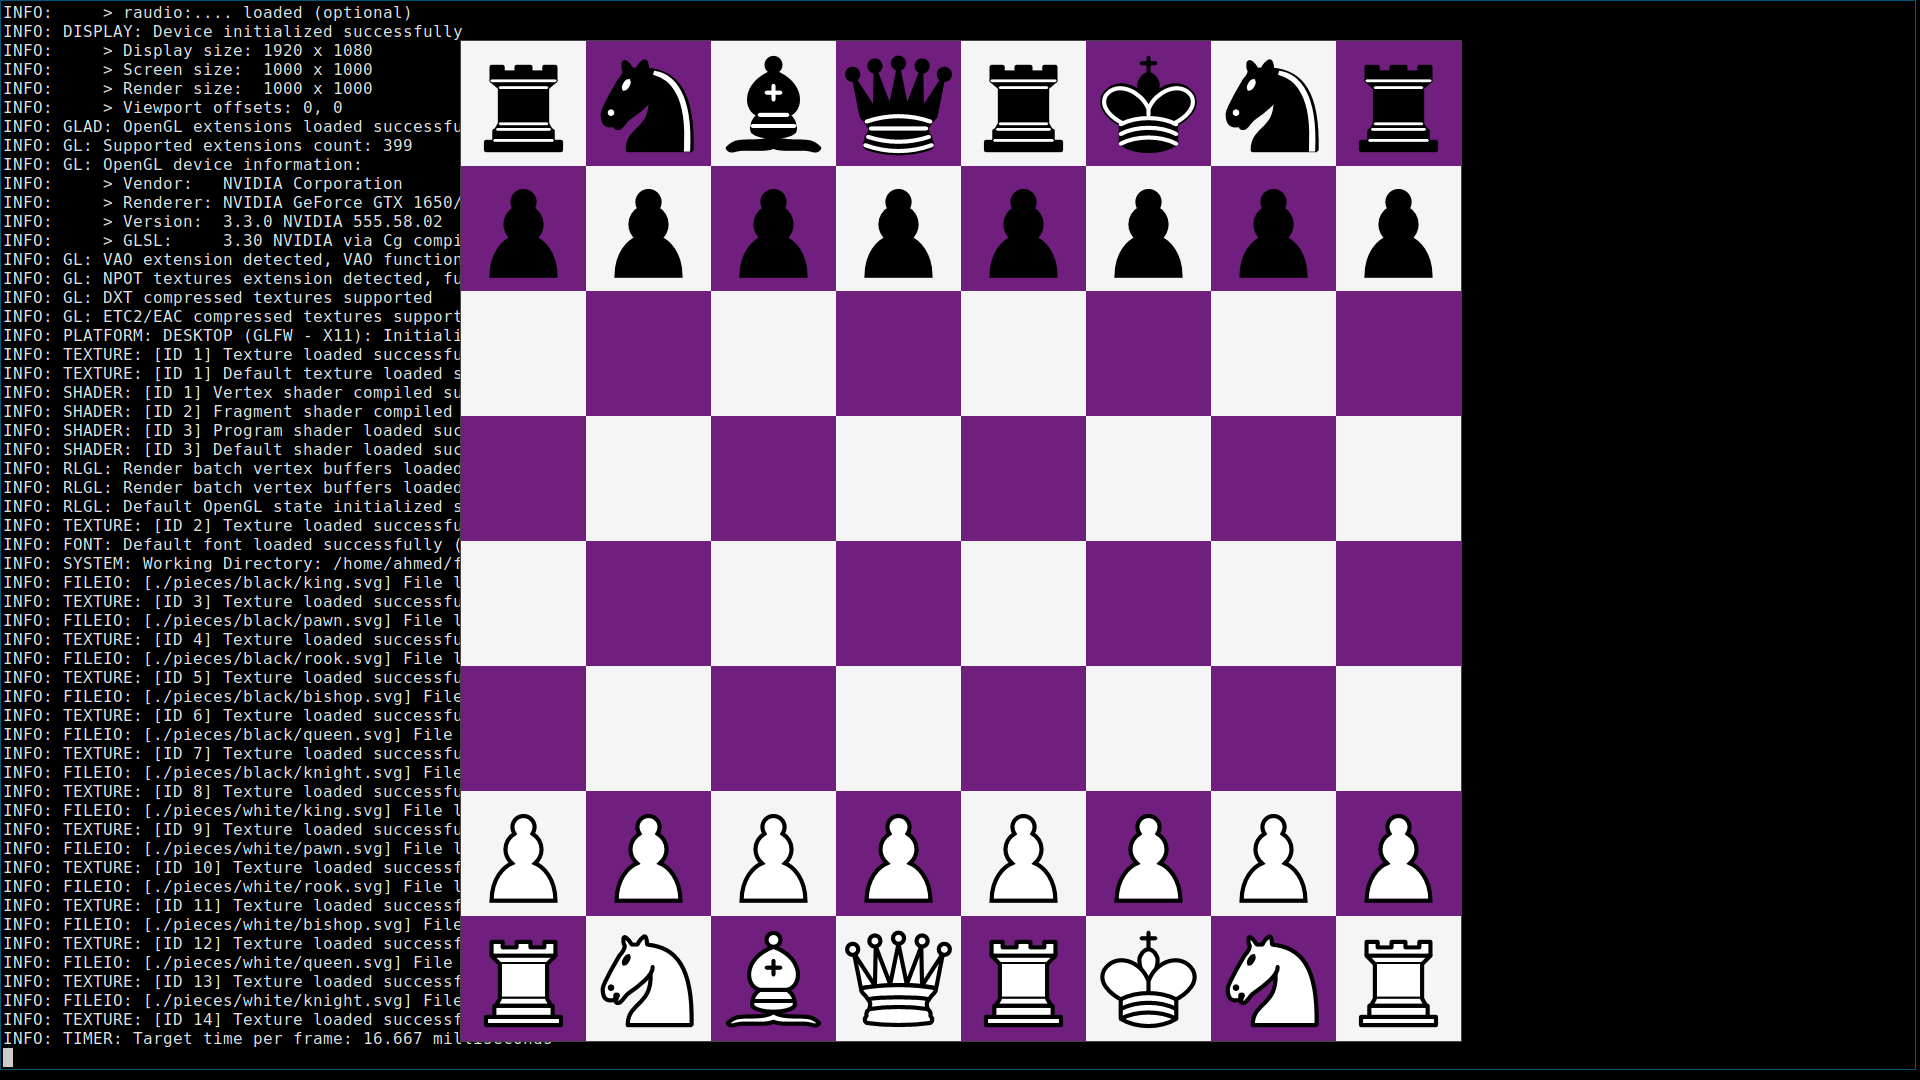
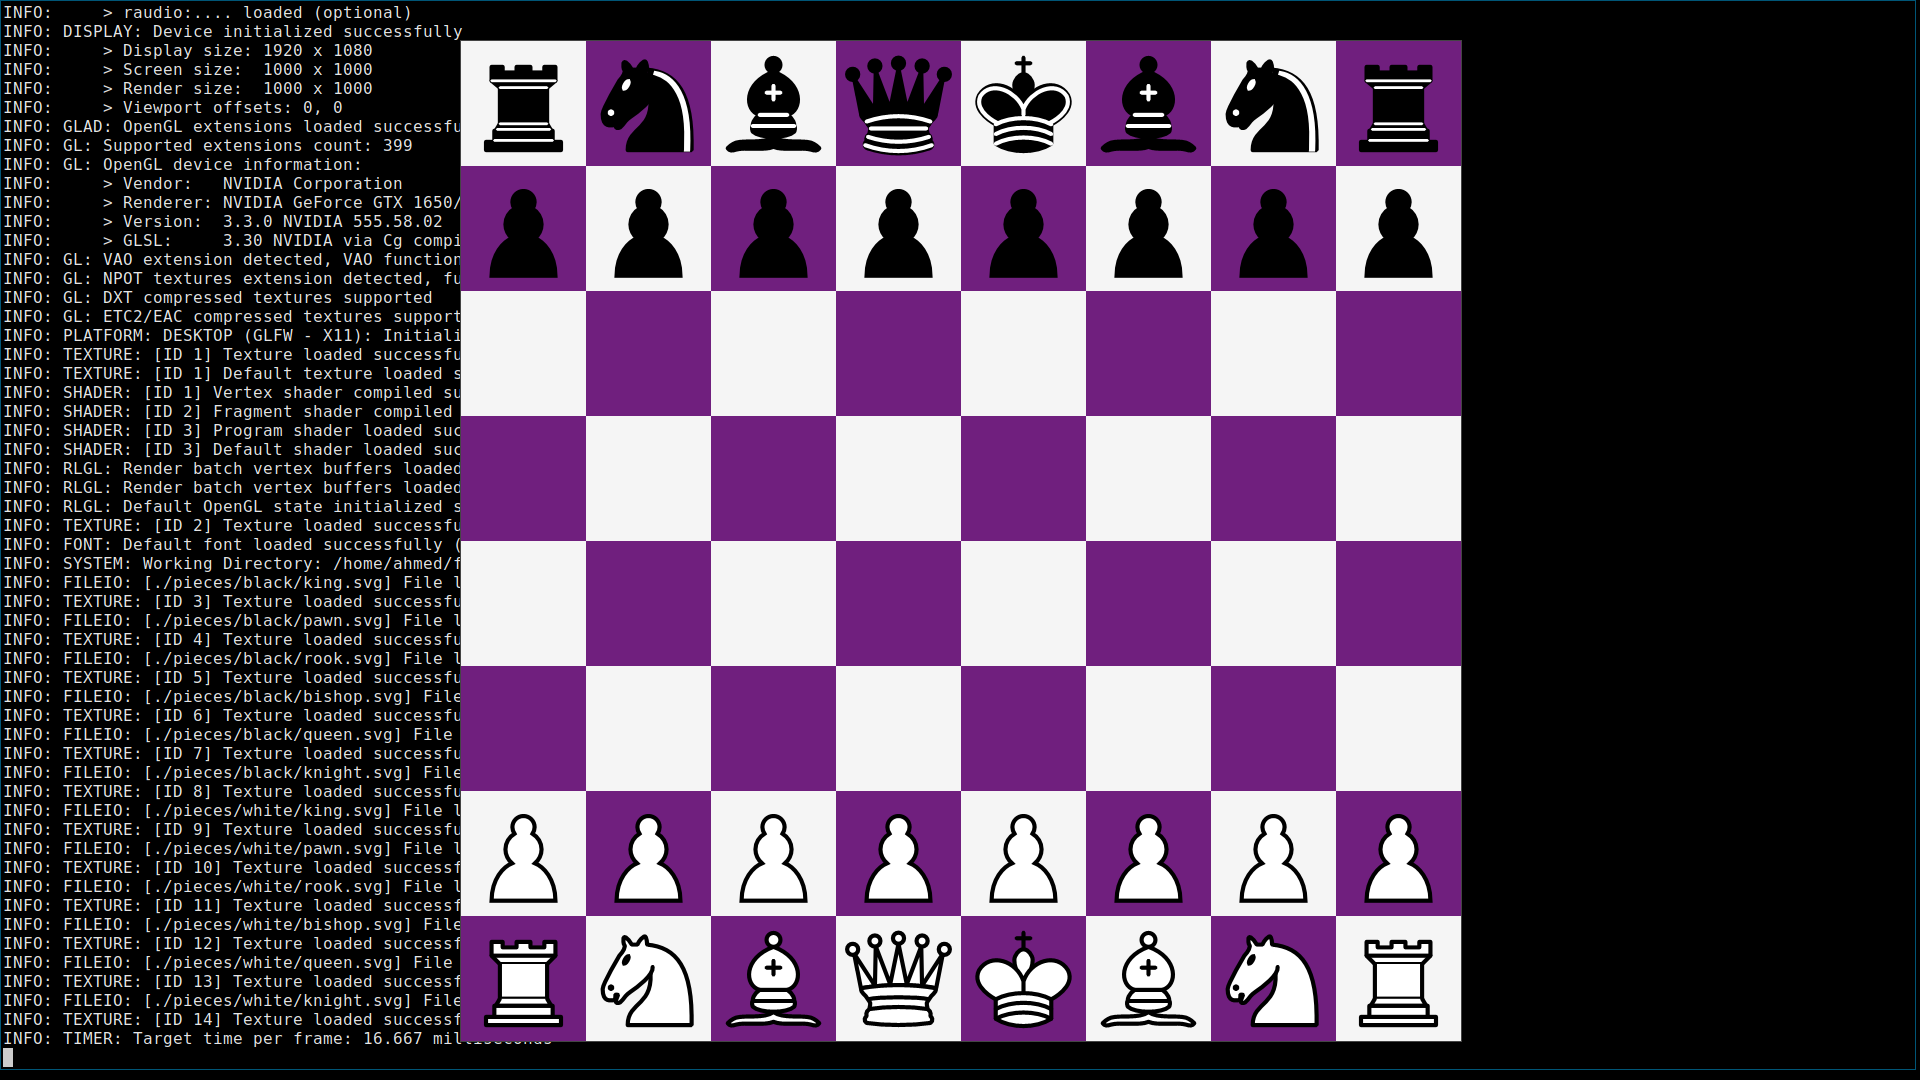
fix posision

Changed region(s): [[0.5, 0.0611, 0.625, 0.1528], [0.5, 0.8556, 0.625, 0.9472]]

diff --git a/main.cpp b/main.cpp
@@ -79,8 +79,8 @@ int main() {
     squares['b'][8].image = t6; // knight
     squares['c'][8].image = t4; // bishop
     squares['d'][8].image = t5; // queen
-    squares['e'][8].image = t3; // king
-    squares['f'][8].image = t1; // bishop
+    squares['e'][8].image = t1; // king
+    squares['f'][8].image = t4; // bishop
     squares['g'][8].image = t6; // knight
     squares['h'][8].image = t3; // rook
     for(char ch = 'a'; ch <= 'h'; ch++) {
@@ -117,8 +117,8 @@ int main() {
     squares['b'][1].image = t6; // knight
     squares['c'][1].image = t4; // bishop
     squares['d'][1].image = t5; // queen
-    squares['e'][1].image = t3; // king
-    squares['f'][1].image = t1; // bishop
+    squares['e'][1].image = t1; // king
+    squares['f'][1].image = t4; // bishop
     squares['g'][1].image = t6; // knight
     squares['h'][1].image = t3; // rook
     for(char ch = 'a'; ch <= 'h'; ch++) {
